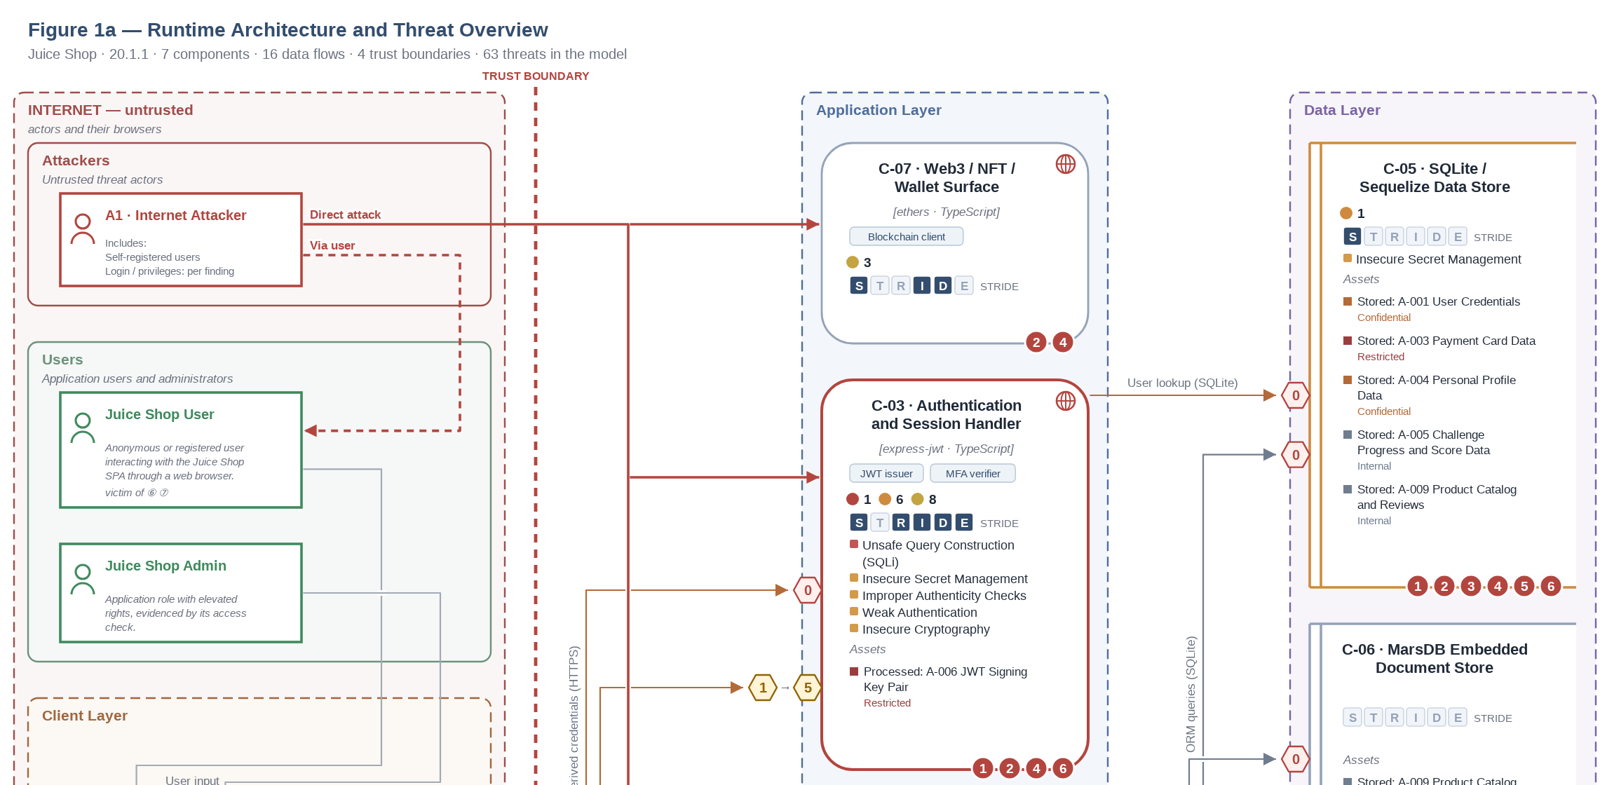
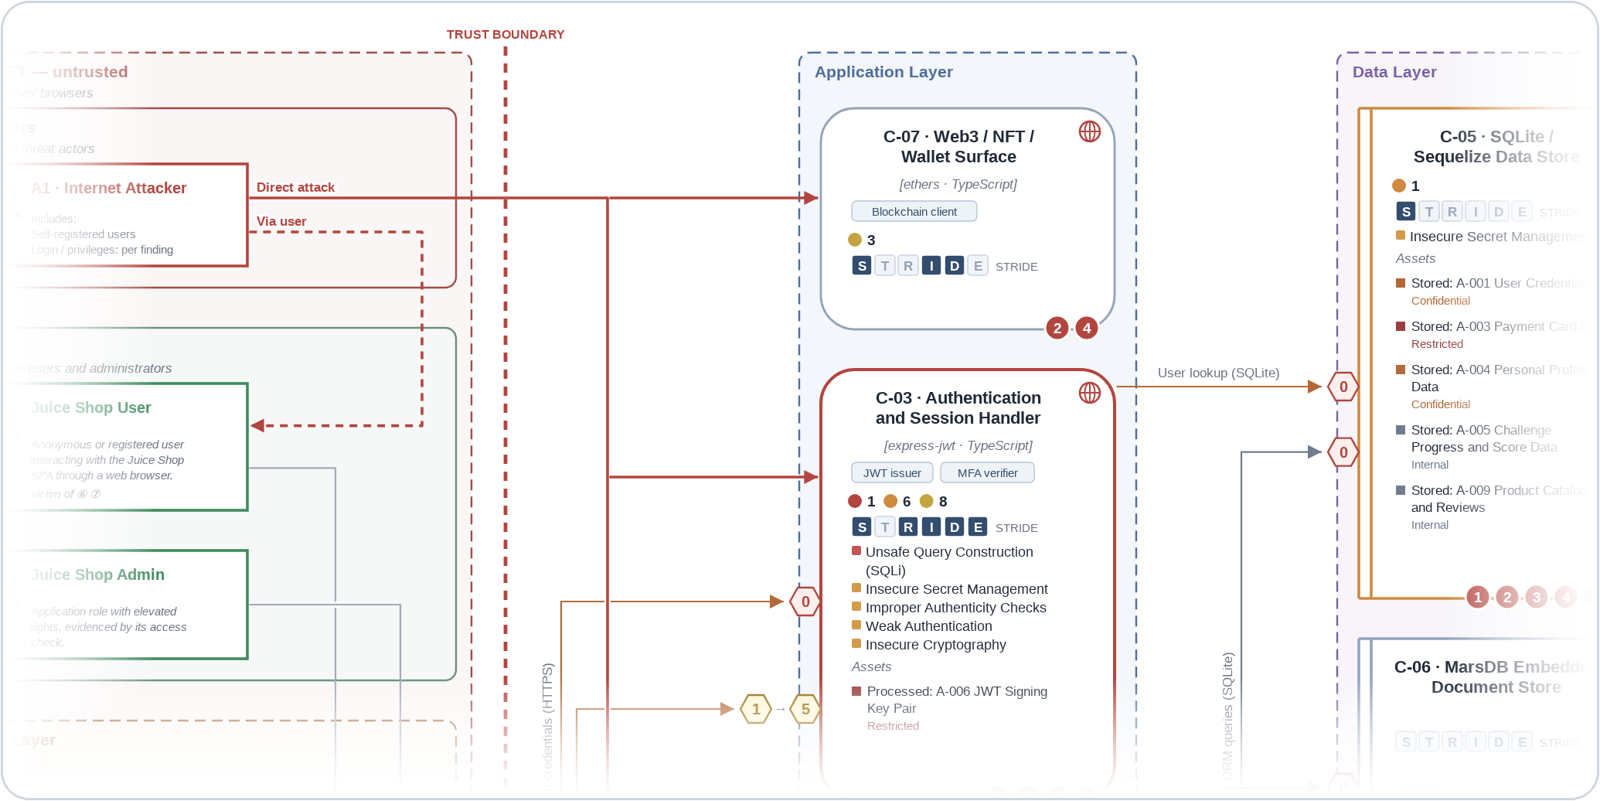
docs: frame figure 1 excerpt as card with light and dark variants

diff --git a/profile/README.md b/profile/README.md
@@ -14,7 +14,10 @@
 [**appsec-advisor**](https://github.com/appsec-foundry/appsec-advisor) is a Claude Code plugin for threat modeling on the implementation level. Run it inside a code repository, and it derives the implemented architecture from code and configuration: components, data flows, and trust boundaries. It then identifies threats and control gaps in that architecture. Every finding points to evidence in the repository and comes with remediation guidance. The plugin also assesses planned features and single code changes, audits requirements, and runs as a CI gate.
 
 <p align="center">
-  <img src="https://raw.githubusercontent.com/appsec-foundry/.github/main/profile/images/advisor-figure1.png" alt="Excerpt from Figure 1a of the OWASP Juice Shop threat model: internet attacker, trust boundary, application layer components with their findings, and data layer assets" width="100%">
+  <picture>
+    <source media="(prefers-color-scheme: dark)" srcset="https://raw.githubusercontent.com/appsec-foundry/.github/main/profile/images/advisor-figure1-dark.png">
+    <img src="https://raw.githubusercontent.com/appsec-foundry/.github/main/profile/images/advisor-figure1.png" alt="Excerpt from Figure 1a of the OWASP Juice Shop threat model: internet attacker, trust boundary, application layer components with their findings, and data layer assets" width="100%">
+  </picture>
 </p>
 
 <p align="center"><sub>Excerpt from Figure 1a of the OWASP Juice Shop threat model: the architecture derived from the repository, with findings per component and the assets each layer stores.</sub></p>
